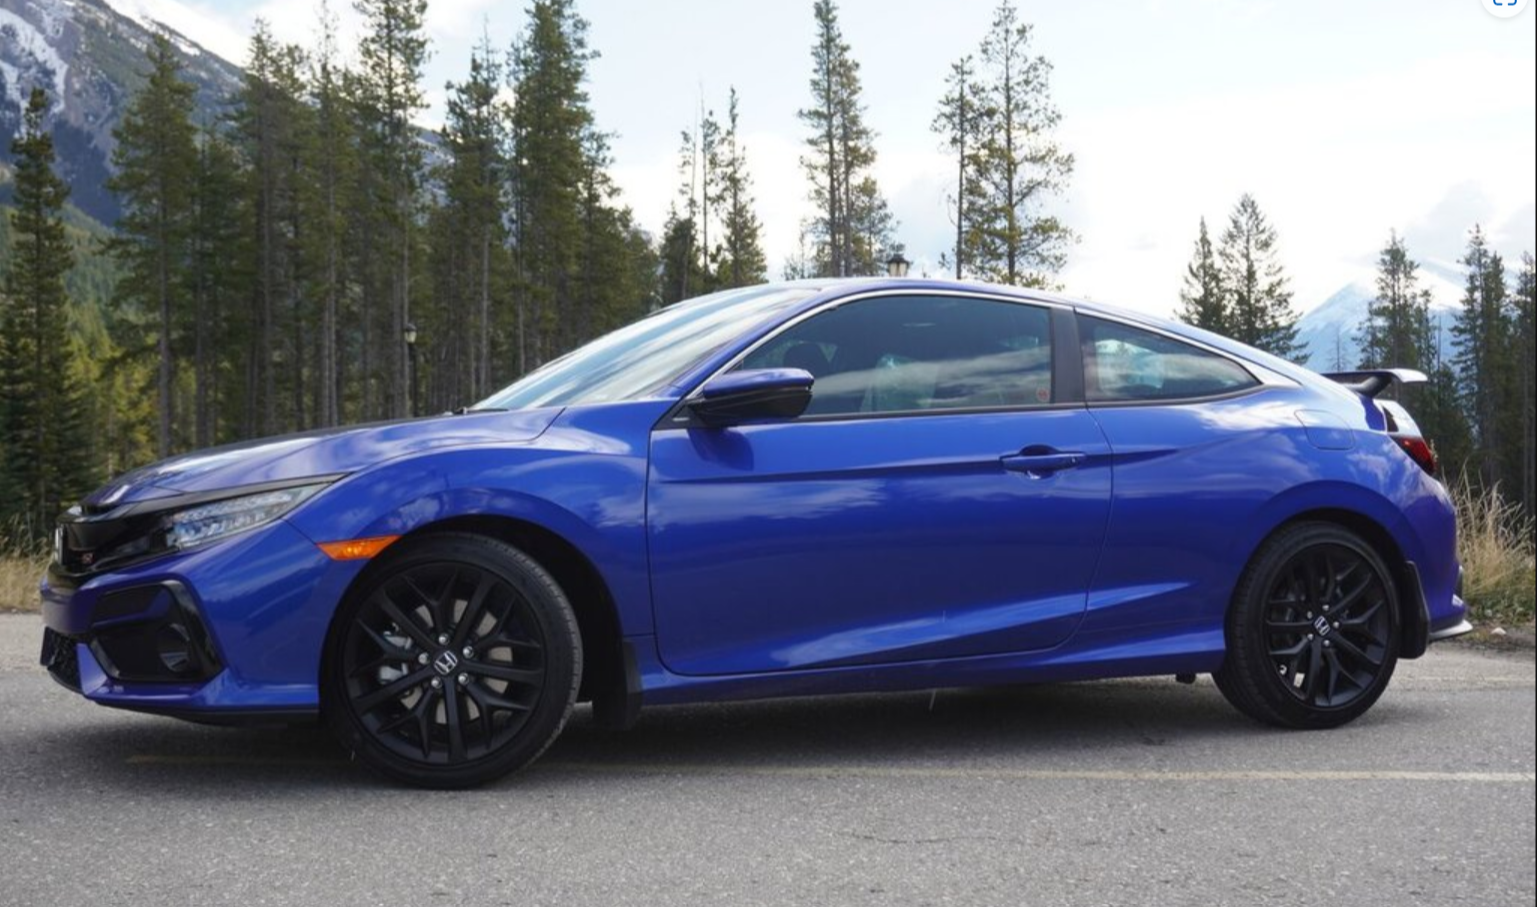
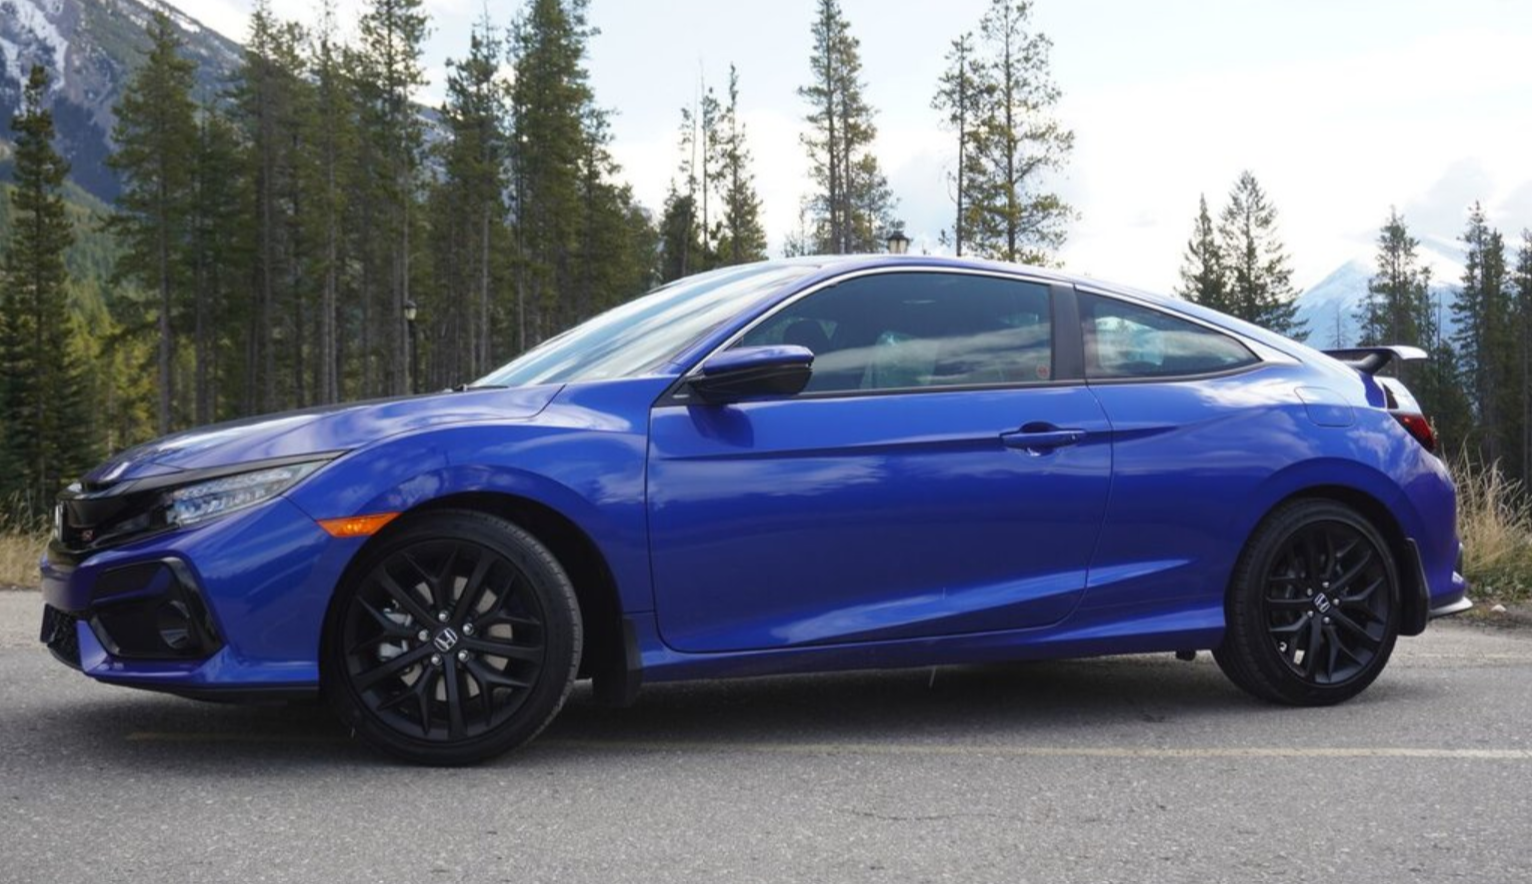
table css

diff --git a/forms/contact.html b/forms/contact.html
@@ -109,7 +109,7 @@
 
         <section id="form">
             <!-- Alexander Ratelle -->
-            <form action="form.html">
+            <form action="contact.html">
                 <label for="fname" id="p"> Your name </label><br />
                 <input type="text" id="pname" name="fname" value="" /><br />
                 <label for="lname" id="p"> Your e-mail address</label><br />

diff --git a/categories/Trucks.html b/categories/Trucks.html
@@ -147,7 +147,7 @@
                         </table>
 
                     </section>
-                    <section id="suv">
+                    <section id="coupe">
                     <h2>SUV</h2> 
 
                          <!-- Michael Arcaro-->

diff --git a/categories/Boats.html b/categories/Boats.html
@@ -159,7 +159,7 @@
 
                     </section>
 
-                    <section id="suv">
+                    <section id="hatchback">
                     <h2> Cabin Cruiser </h2> 
 
                          <!-- Michael Arcaro-->

diff --git a/categories/Motorcycles.html b/categories/Motorcycles.html
@@ -160,7 +160,7 @@
 
                     </section>
 
-                    <section id="suv">
+                    <section id="hatchback">
                     <h2>Sport Bike </h2> 
 
                          <!-- Michael Arcaro-->

diff --git a/Styles/cars.css b/Styles/cars.css
@@ -38,8 +38,11 @@ table, th, td {
 }
 
 img {
-    /*Michael Arcro*/
-    margin-top: 3px;
+    /* Michael Arcaro */ 
+    width: 100%;
+    height: 100%;
+    object-fit: fill;
+    padding: 5px;
 }
 
 tr:nth-child(even) {
